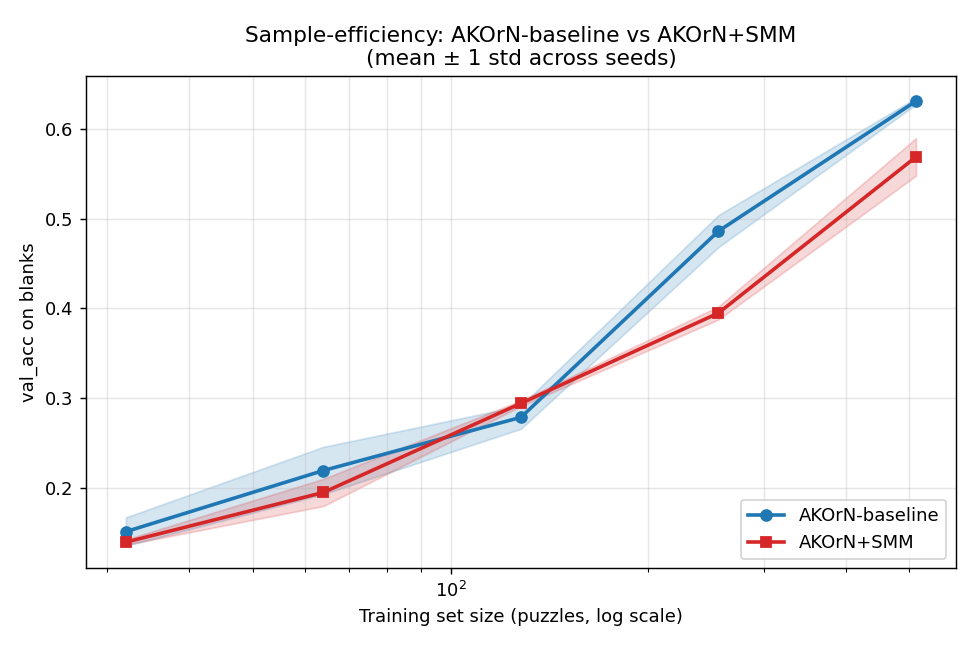
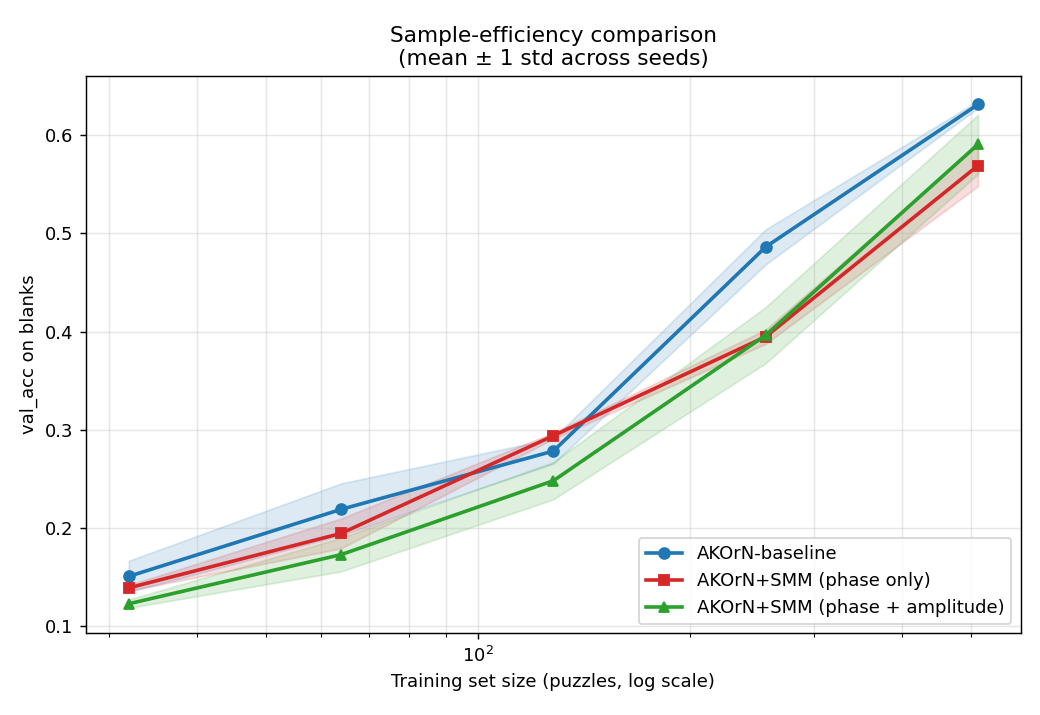
exp: amplitude-augmented SMM does not close gap; hypothesis A rejected

Changed region(s): [[0.0, 0.0308, 0.9846, 0.9846]]

diff --git a/experiments/sample_efficiency.py b/experiments/sample_efficiency.py
@@ -46,6 +46,7 @@ from torch.utils.data import DataLoader, Subset
 from akorn_smm_sudoku import (
     AKOrNBaseline,
     AKOrNWithSMM,
+    AKOrNWithSMMAmp,
     SudokuDataset,
     loss_and_metrics,
     count_params,
@@ -123,6 +124,8 @@ def make_model(name: str, *, embed_dim: int, osc_per_cell: int,
         return AKOrNBaseline(**kwargs)
     if name == 'smm':
         return AKOrNWithSMM(**kwargs)
+    if name == 'smm_amp':
+        return AKOrNWithSMMAmp(**kwargs)
     raise ValueError(f"Unknown model name: {name!r}")
 
 
@@ -132,7 +135,7 @@ def make_model(name: str, *, embed_dim: int, osc_per_cell: int,
 
 def run_sweep(args) -> List[RunResult]:
     train_sizes = sorted(int(x) for x in args.train_sizes.split(','))
-    model_names = ('baseline', 'smm')
+    model_names = tuple(name.strip() for name in args.models.split(','))
     largest_train_size = max(train_sizes)
     total_runs = len(model_names) * len(train_sizes) * args.seeds
 
@@ -261,24 +264,27 @@ def plot_curves(summary: Dict[Tuple[str, int], Dict[str, float]],
         print("       install with: pip install matplotlib")
         return
 
-    fig, ax = plt.subplots(figsize=(7.5, 5))
+    fig, ax = plt.subplots(figsize=(8, 5.5))
     style = {
         'baseline': dict(color='#1f77b4', marker='o', label='AKOrN-baseline'),
-        'smm':      dict(color='#d62728', marker='s', label='AKOrN+SMM'),
+        'smm':      dict(color='#d62728', marker='s', label='AKOrN+SMM (phase only)'),
+        'smm_amp':  dict(color='#2ca02c', marker='^', label='AKOrN+SMM (phase + amplitude)'),
     }
 
-    for name, st in style.items():
+    present_models = sorted({n for n, _ in summary})
+    for name in present_models:
+        st = style.get(name, dict(color='gray', marker='x', label=name))
         sizes = sorted({s for n, s in summary if n == name})
         means = np.array([summary[(name, s)]['mean'] for s in sizes])
         stds  = np.array([summary[(name, s)]['std']  for s in sizes])
         ax.plot(sizes, means, lw=2, **st)
         ax.fill_between(sizes, means - stds, means + stds,
-                        color=st['color'], alpha=0.18)
+                        color=st['color'], alpha=0.15)
 
     ax.set_xscale('log')
     ax.set_xlabel('Training set size (puzzles, log scale)')
     ax.set_ylabel(metric_label)
-    ax.set_title('Sample-efficiency: AKOrN-baseline vs AKOrN+SMM\n(mean ± 1 std across seeds)')
+    ax.set_title('Sample-efficiency comparison\n(mean ± 1 std across seeds)')
     ax.legend(loc='lower right')
     ax.grid(True, which='both', alpha=0.3)
     fig.tight_layout()
@@ -291,64 +297,76 @@ def plot_curves(summary: Dict[Tuple[str, int], Dict[str, float]],
 
 def print_summary_table(summary: Dict[Tuple[str, int], Dict[str, float]]) -> None:
     sizes = sorted({s for _, s in summary})
+    models = sorted({n for n, _ in summary})
+    col_w = 18
     print()
     print(f"=== Sample-efficiency summary (val_acc on blanks) ===")
-    print(f"{'train_size':<12} {'baseline':>18} {'smm':>18} {'delta':>10}")
-    print(f"{'-'*60}")
+    header = f"{'train_size':<12}" + ''.join(f"{m:>{col_w}}" for m in models)
+    print(header)
+    print('-' * len(header))
     for size in sizes:
-        b = summary.get(('baseline', size))
-        s = summary.get(('smm', size))
-        if not (b and s):
-            continue
-        b_str = f"{b['mean']:.3f} ± {b['std']:.3f}"
-        s_str = f"{s['mean']:.3f} ± {s['std']:.3f}"
-        delta = s['mean'] - b['mean']
-        sign = '+' if delta >= 0 else ''
-        print(f"{size:<12} {b_str:>18} {s_str:>18} {sign}{delta:.3f}")
+        row = f"{size:<12}"
+        for m in models:
+            cell = summary.get((m, size))
+            row += (f"{cell['mean']:.3f} ± {cell['std']:.3f}".rjust(col_w)
+                    if cell else 'N/A'.rjust(col_w))
+        print(row)
     print()
 
 
 def report_n50(summary: Dict[Tuple[str, int], Dict[str, float]]) -> None:
     sizes = sorted({s for _, s in summary})
+    models = sorted({n for n, _ in summary})
     max_size = max(sizes)
+
+    if 'baseline' not in models:
+        print("[note] baseline not in sweep; skipping N_50 ratio analysis")
+        return
+
     base_max = summary[('baseline', max_size)]['mean']
-    smm_max  = summary[('smm', max_size)]['mean']
-    target = 0.5 * max(base_max, smm_max)
-
-    n50_b = compute_n50(summary, 'baseline', target)
-    n50_s = compute_n50(summary, 'smm', target)
-
     print(f"=== N_50 analysis ===")
-    print(f"  max accuracy at largest train size:")
-    print(f"    baseline = {base_max:.3f}")
-    print(f"    smm      = {smm_max:.3f}")
-    print(f"  target (50% of max) : {target:.3f}")
-    print(f"  N_50(baseline)      : {n50_b}")
-    print(f"  N_50(smm)           : {n50_s}")
-
-    if n50_b is None or n50_s is None:
-        print(f"  [N_50 ratio not computable -- target not reached at any size by one model]")
-        print(f"  Try increasing --epochs or expanding --train-sizes upward.")
-    else:
-        ratio = n50_b / n50_s
-        verdict = ("SMM more sample-efficient" if ratio > 1
-                   else "tied" if ratio == 1
-                   else "baseline more sample-efficient")
-        print(f"  ratio (baseline / smm): {ratio:.2f}    [{verdict}]")
-        print()
-        if ratio >= 2.0:
-            print(f"  *** Falsifiable claim status: SUPPORTED at this scale  ***")
-            print(f"      (SMM reaches target with at least 2x fewer puzzles)")
-        elif ratio > 1.0:
-            print(f"  *** Falsifiable claim status: WEAK SIGNAL                ***")
-            print(f"      (SMM ahead but below 2x threshold; need more seeds/scale)")
-        elif ratio == 1.0:
-            print(f"  *** Falsifiable claim status: TIED at this scale          ***")
-            print(f"      (Both reach target at the same train size; expand grid)")
-        else:
-            print(f"  *** Falsifiable claim status: NOT SUPPORTED at this scale ***")
-            print(f"      (Baseline is more sample-efficient in this configuration)")
+    print(f"  baseline max accuracy at N={max_size}: {base_max:.3f}")
     print()
+
+    for name in models:
+        if name == 'baseline':
+            continue
+        cand_max = summary[(name, max_size)]['mean']
+        target = 0.5 * max(base_max, cand_max)
+
+        n50_b = compute_n50(summary, 'baseline', target)
+        n50_c = compute_n50(summary, name, target)
+
+        print(f"  --- {name} vs baseline ---")
+        print(f"    {name} max accuracy at N={max_size}: {cand_max:.3f}")
+        print(f"    target (50% of max)               : {target:.3f}")
+        print(f"    N_50(baseline)                    : {n50_b}")
+        print(f"    N_50({name}){' '*(max(0, 23-len(name)))}: {n50_c}")
+
+        if n50_b is None or n50_c is None:
+            print(f"    [N_50 not computable — target unreached at any size]")
+            print(f"    Try increasing --epochs or extending --train-sizes upward.")
+        else:
+            ratio = n50_b / n50_c
+            verdict = ("more sample-efficient" if ratio > 1
+                       else "tied" if ratio == 1
+                       else "less sample-efficient")
+            print(f"    ratio (baseline / {name}): {ratio:.2f}    [{name} {verdict}]")
+            if ratio >= 2.0:
+                tag = "SUPPORTED at this scale"
+                detail = f"({name} reaches target with at least 2x fewer puzzles)"
+            elif ratio > 1.0:
+                tag = "WEAK SIGNAL"
+                detail = f"({name} ahead but below 2x threshold)"
+            elif ratio == 1.0:
+                tag = "TIED at this scale"
+                detail = "(both reach target at the same train size)"
+            else:
+                tag = "NOT SUPPORTED at this scale"
+                detail = f"(baseline more sample-efficient than {name})"
+            print(f"    Falsifiable claim status: {tag}")
+            print(f"      {detail}")
+        print()
 
 
 # =============================================================================
@@ -359,6 +377,8 @@ def main():
     p = argparse.ArgumentParser(description=__doc__.split('\n')[1])
     p.add_argument('--train-sizes', type=str, default='32,64,128,256,512',
                    help='Comma-separated training set sizes (log-spaced recommended)')
+    p.add_argument('--models', type=str, default='baseline,smm,smm_amp',
+                   help='Comma-separated model names to compare')
     p.add_argument('--seeds', type=int, default=3)
     p.add_argument('--epochs', type=int, default=20)
     p.add_argument('--val-size', type=int, default=64)

diff --git a/experiments/akorn_smm_sudoku.py b/experiments/akorn_smm_sudoku.py
@@ -185,20 +185,36 @@ class KuramotoLayer(nn.Module):
 # =============================================================================
 
 class CellReadout(nn.Module):
-    """Maps final oscillator phases of each cell to 9 digit logits."""
-    def __init__(self, osc_per_cell: int, hidden_dim: int = 32, n_digits: int = 9):
+    """Maps final oscillator phases of each cell to 9 digit logits.
+
+    Features per channel:
+        use_amplitude=False : (cos(theta), sin(theta))           — 2 features
+        use_amplitude=True  : (cos(theta), sin(theta), |zeta|)   — 3 features
+
+    The amplitude-aware version is for SMM variants that compute zeta as a
+    complex tensor; the magnitude carries information that would otherwise
+    be discarded by `zeta.angle()`.
+    """
+    def __init__(self, osc_per_cell: int, hidden_dim: int = 32,
+                 n_digits: int = 9, use_amplitude: bool = False):
         super().__init__()
-        # Use (sin, cos) of each phase as features — invariant to 2pi shifts
+        self.use_amplitude = use_amplitude
+        n_features = osc_per_cell * (3 if use_amplitude else 2)
         self.head = nn.Sequential(
-            nn.Linear(osc_per_cell * 2, hidden_dim),
+            nn.Linear(n_features, hidden_dim),
             nn.ReLU(),
             nn.Linear(hidden_dim, n_digits),
         )
 
-    def forward(self, theta: torch.Tensor) -> torch.Tensor:
+    def forward(self, theta: torch.Tensor,
+                amplitude: torch.Tensor = None) -> torch.Tensor:
         # theta: (B, n_cells, osc_per_cell)  ->  logits: (B, n_cells, n_digits)
-        feat = torch.cat([theta.cos(), theta.sin()], dim=-1)
-        return self.head(feat)
+        feats = [theta.cos(), theta.sin()]
+        if self.use_amplitude:
+            assert amplitude is not None, \
+                "amplitude required when use_amplitude=True"
+            feats.append(amplitude)
+        return self.head(torch.cat(feats, dim=-1))
 
 
 # =============================================================================
@@ -257,6 +273,9 @@ class AKOrNWithSMM(nn.Module):
     The input projection produces a 3*osc_per_cell vector per cell, which is
     then split into (r, theta, z) chunks by HelicalEmbedding. The phase of the
     resulting complex zeta is used directly as the Kuramoto initial condition.
+
+    NOTE: this variant discards |zeta| (amplitude) when calling .angle().
+    See AKOrNWithSMMAmp for the version that preserves amplitude info.
     """
     def __init__(self, embed_dim: int = 24, intermediate_dim: int = 12,
                  osc_per_cell: int = 4, kuramoto_steps: int = 8):
@@ -280,6 +299,49 @@ class AKOrNWithSMM(nn.Module):
         phases = zeta.angle()                        # extract phase from complex repr
         phases = self.kuramoto(phases)
         logits = self.readout(phases)                # (B, 81, 9)
+        return logits
+
+
+class AKOrNWithSMMAmp(nn.Module):
+    """SMM variant that preserves amplitude information (Path A diagnostic).
+
+    Identical to AKOrNWithSMM except the readout receives BOTH phase
+    (via cos/sin) AND amplitude (|zeta|) per channel. This tests the
+    hypothesis that the lossy `zeta.angle()` extraction in AKOrNWithSMM
+    was a major source of underperformance.
+
+    Architectural choice: amplitude is taken from the *initial* zeta
+    (before Kuramoto). Kuramoto only modifies phases; the amplitude
+    carries direct information from the input embedding through to
+    the readout, bypassing the oscillator dynamics. This is a deliberate
+    decision to test whether the encoder's amplitude signal is what the
+    baseline's flexible Linear projection was implicitly capturing.
+
+    Param overhead vs AKOrNWithSMM:
+        readout input grows from 2*osc_per_cell to 3*osc_per_cell features
+        => +osc_per_cell * hidden_dim params (e.g., 4 * 32 = 128 at defaults)
+    """
+    def __init__(self, embed_dim: int = 24, intermediate_dim: int = 12,
+                 osc_per_cell: int = 4, kuramoto_steps: int = 8):
+        super().__init__()
+        self.osc_per_cell = osc_per_cell
+        assert intermediate_dim == 3 * osc_per_cell
+        self.embed = GridEmbedding(embed_dim)
+        self.proj_intermediate = nn.Linear(embed_dim, intermediate_dim)
+        self.helical = HelicalEmbedding(input_dim=intermediate_dim)
+        self.kuramoto = KuramotoLayer(n_cells=81, osc_per_cell=osc_per_cell,
+                                       n_steps=kuramoto_steps)
+        # Amplitude-aware readout: 3 features per channel (cos, sin, |zeta|)
+        self.readout = CellReadout(osc_per_cell, use_amplitude=True)
+
+    def forward(self, puzzle: torch.Tensor) -> torch.Tensor:
+        e = self.embed(puzzle)
+        h = F.gelu(self.proj_intermediate(e))
+        zeta, _ = self.helical(h)                    # complex
+        phases = zeta.angle()
+        amplitudes = zeta.abs()                      # *** preserved ***
+        phases = self.kuramoto(phases)               # Kuramoto only touches phases
+        logits = self.readout(phases, amplitudes)
         return logits
 
 
